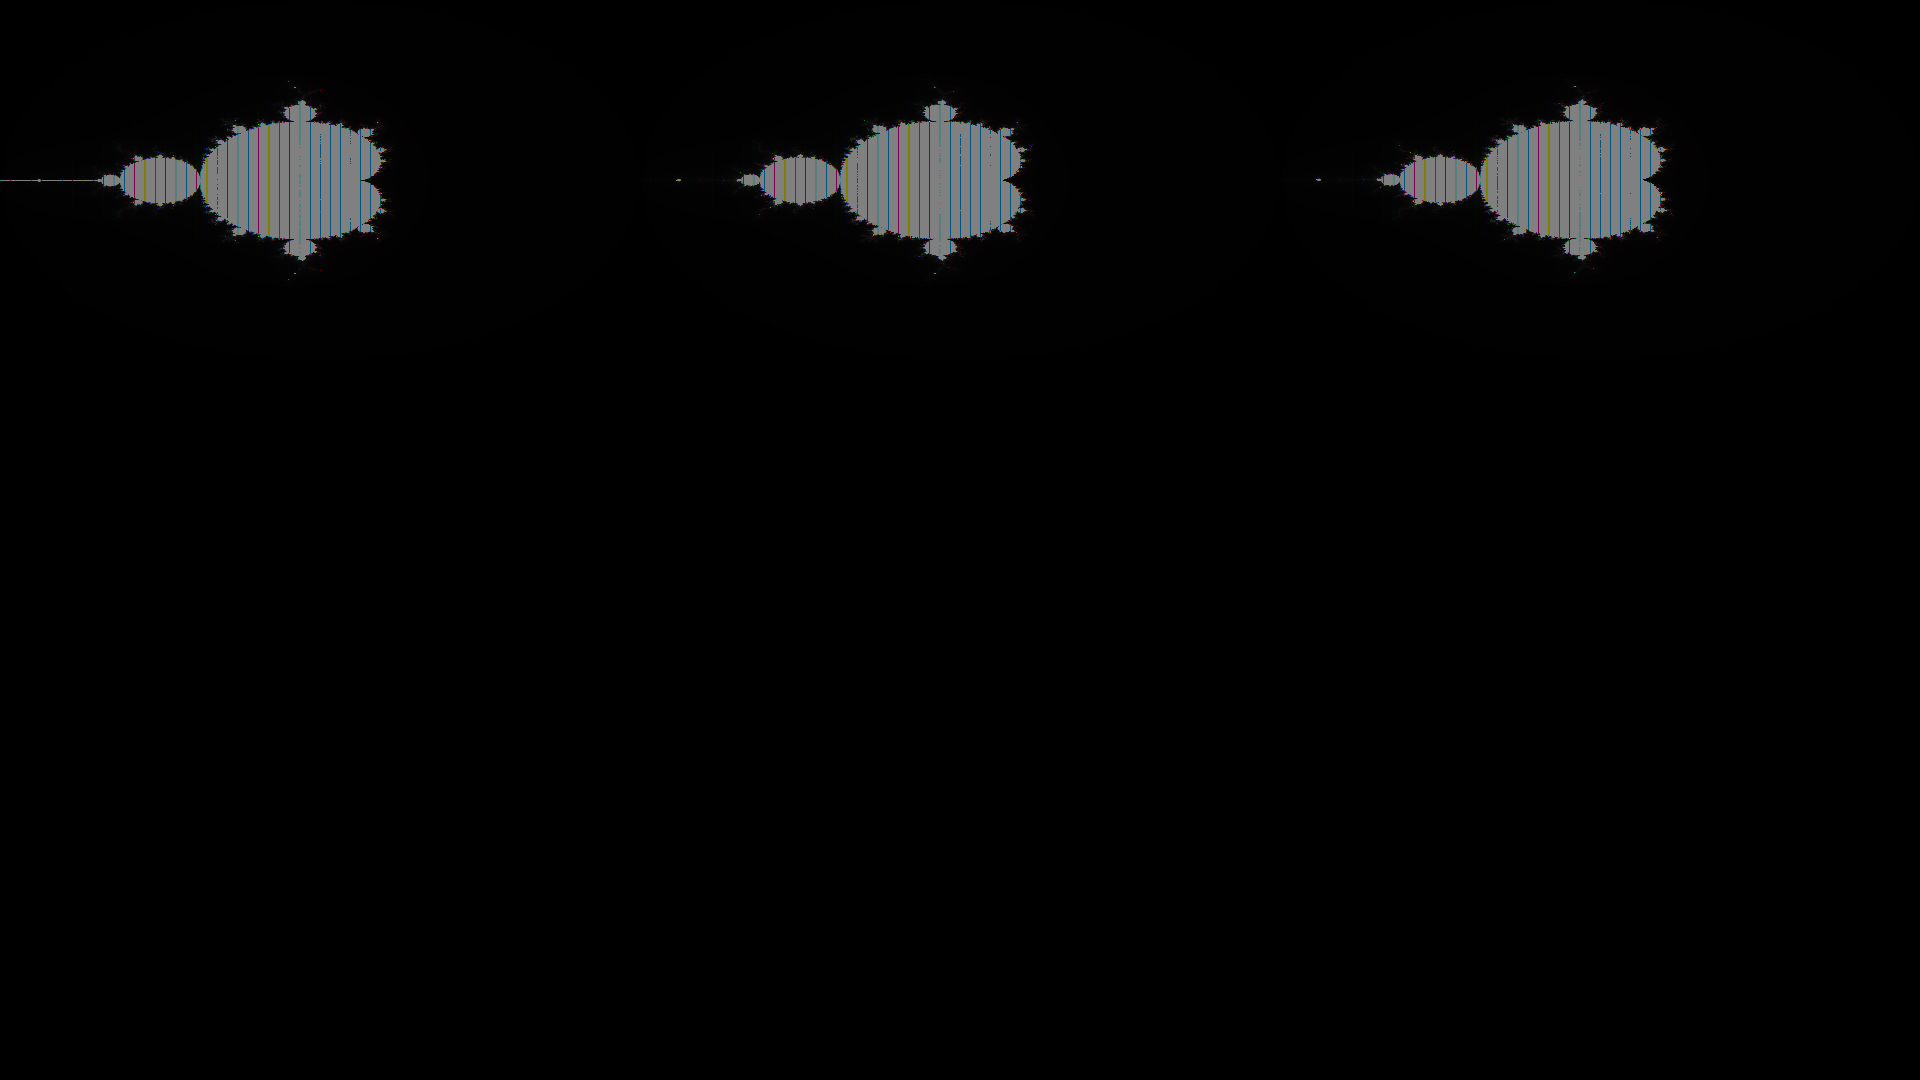
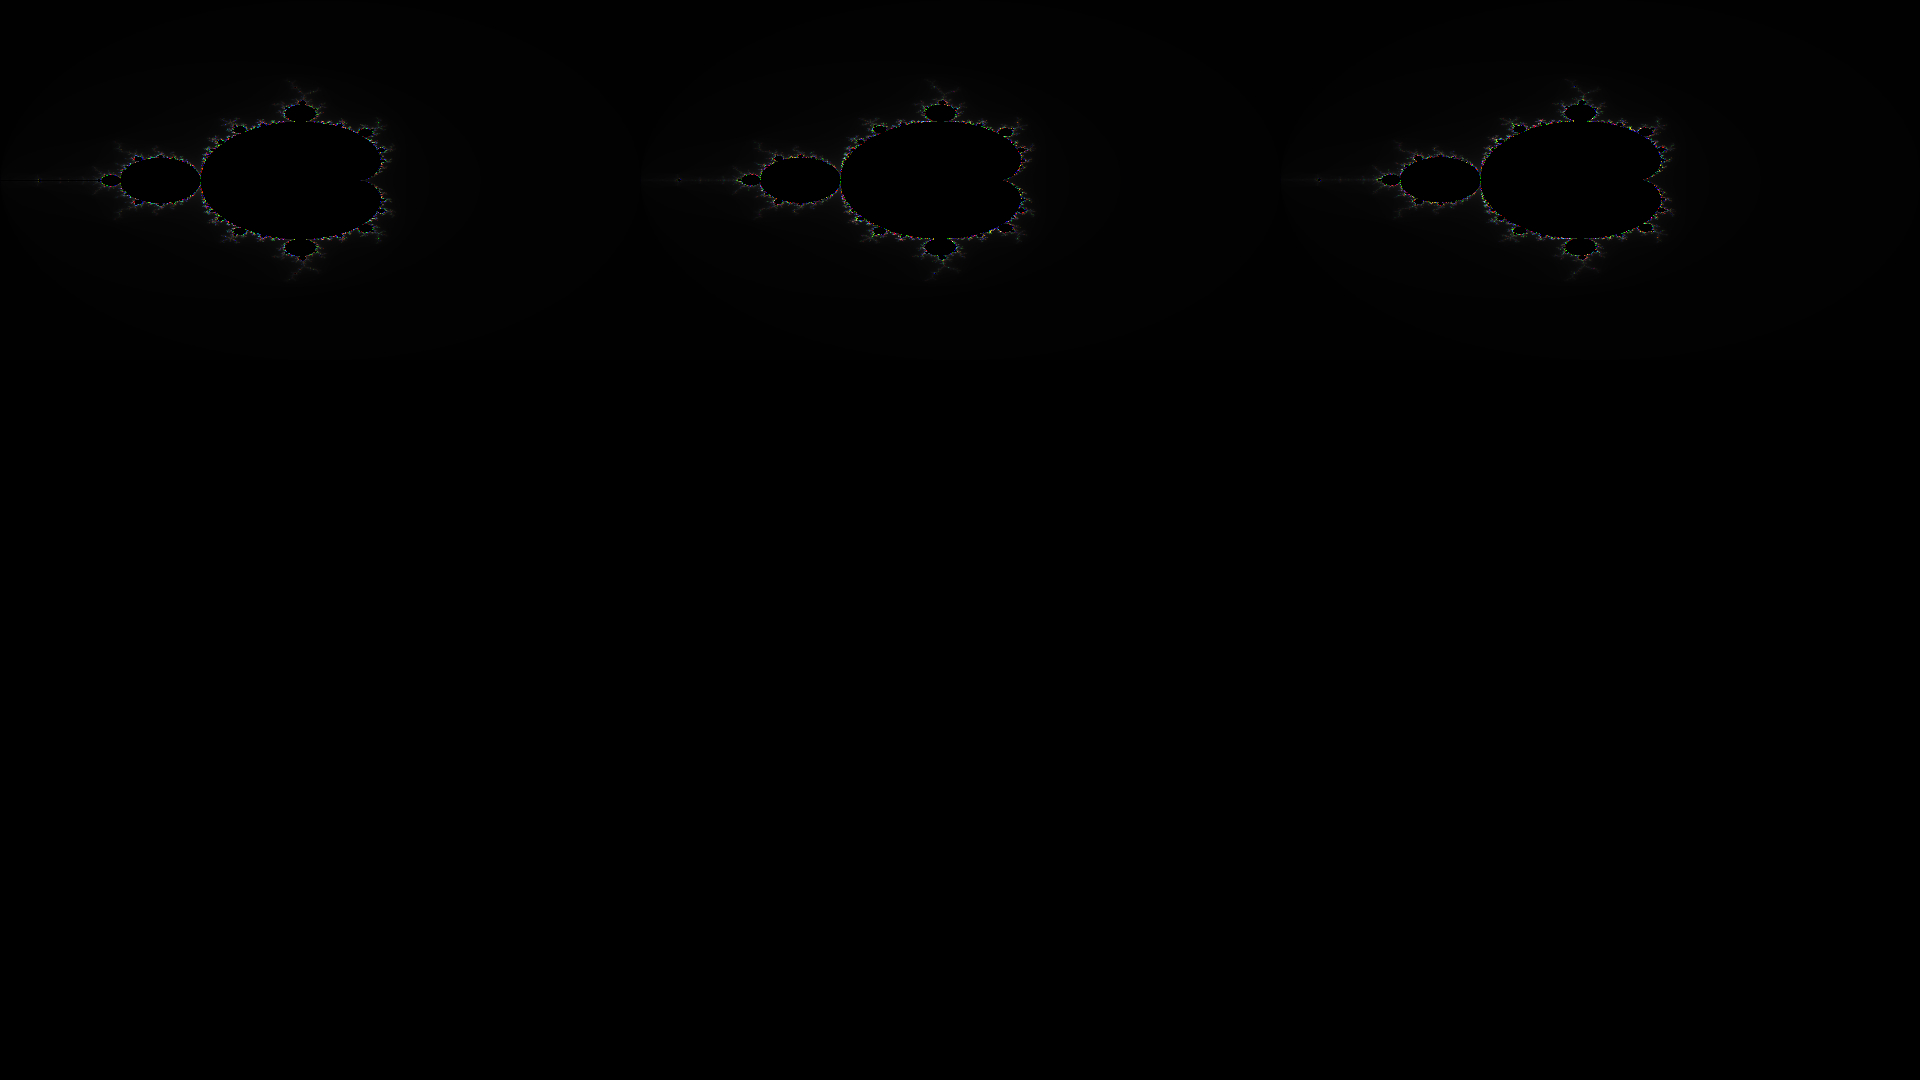
img

Changed region(s): [[0.0312, 0.0917, 0.2188, 0.2444], [0.7188, 0.0917, 0.875, 0.2444], [0.375, 0.0917, 0.5312, 0.2444]]

diff --git a/trabalho/mand.c b/trabalho/mand.c
@@ -23,9 +23,9 @@ void mand(unsigned char *output){
                 zx = tmp;
                 iter++;
             }
-           output[(y * WIDTH + x)] = iter/2;
-           output[(y * WIDTH + x)+1] = iter;
-           output[(y * WIDTH + x)+2] = iter/3;
+            //output[(y * WIDTH + x)] = iter;
+            output[(y * WIDTH + x)+1] = iter;
+            output[(y * WIDTH + x)+2] = iter;
         }
         
     }
